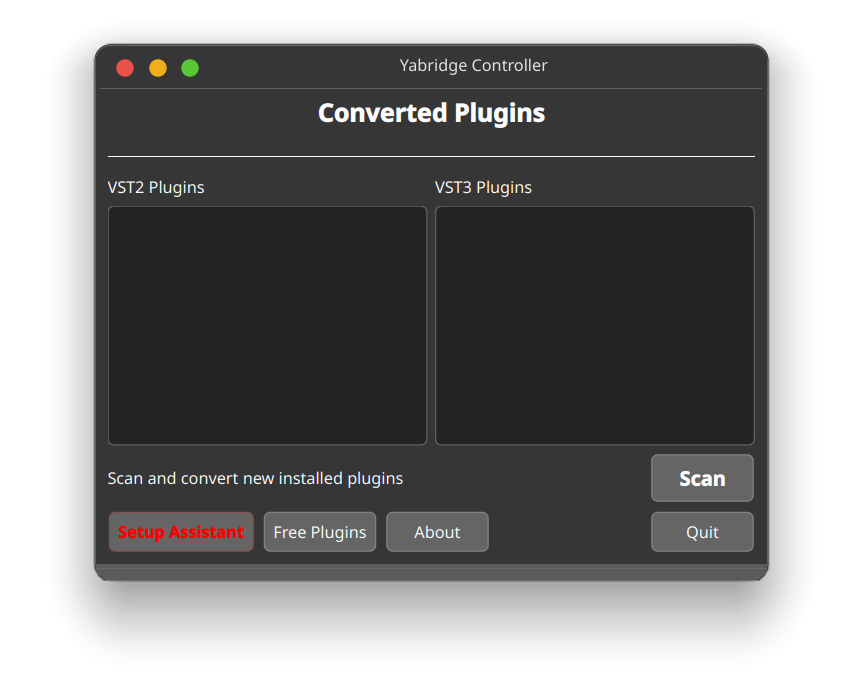
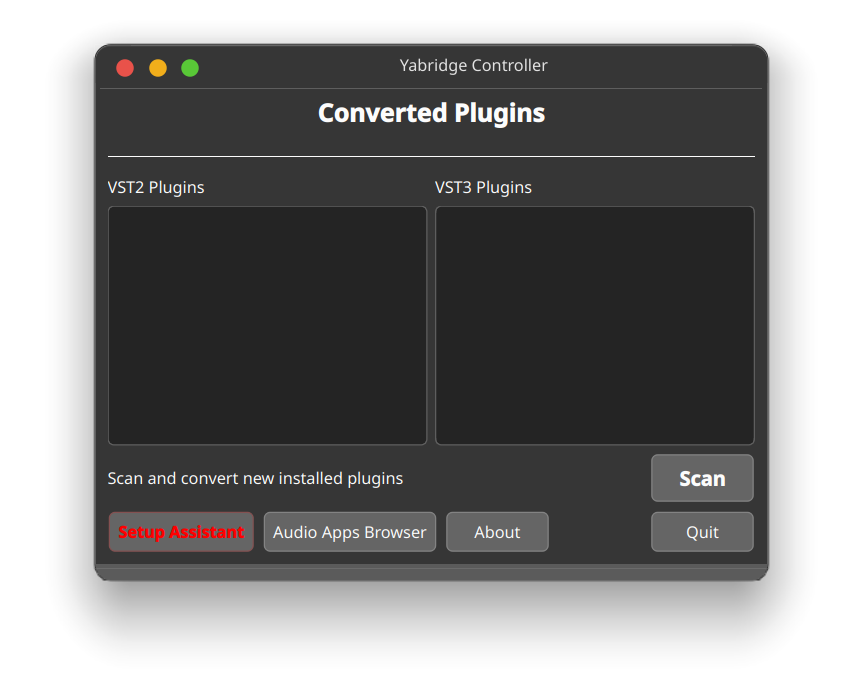
Update Screenshots

Changed region(s): [[0.3013, 0.7336, 0.6628, 0.8253]]

diff --git a/src/yabridge_gui/models/audio_app.py b/src/yabridge_gui/models/audio_app.py
@@ -43,7 +43,9 @@ class AudioApp:
             name=data.get("name", slug),
             developer=data.get("developer", ""),
             description=data.get("description", ""),
-            category=data.get("category") if isinstance(data.get("category"), list) else ([data["category"]] if data.get("category") else []),
+            category=data.get("category")
+            if isinstance(data.get("category"), list)
+            else ([data["category"]] if data.get("category") else []),
             website=data.get("website", ""),
             download=data.get("download", ""),
             formats=data.get("formats", []),
